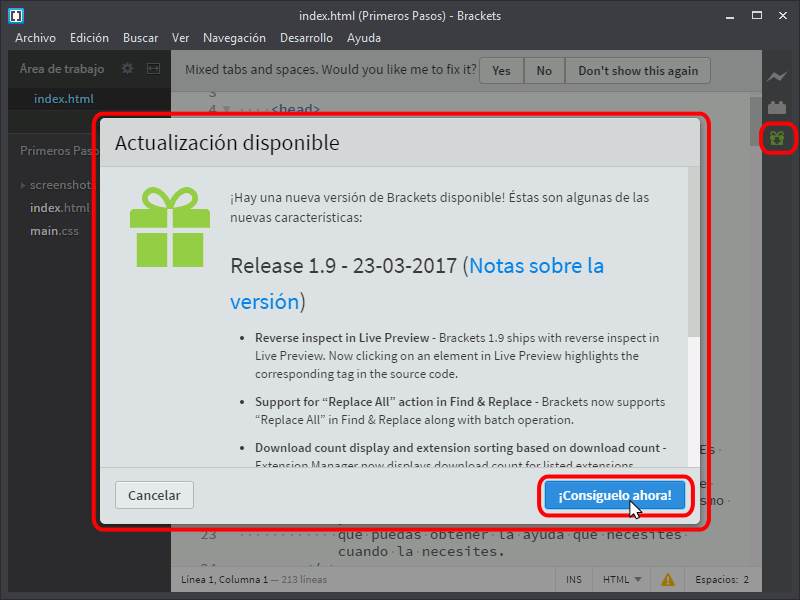
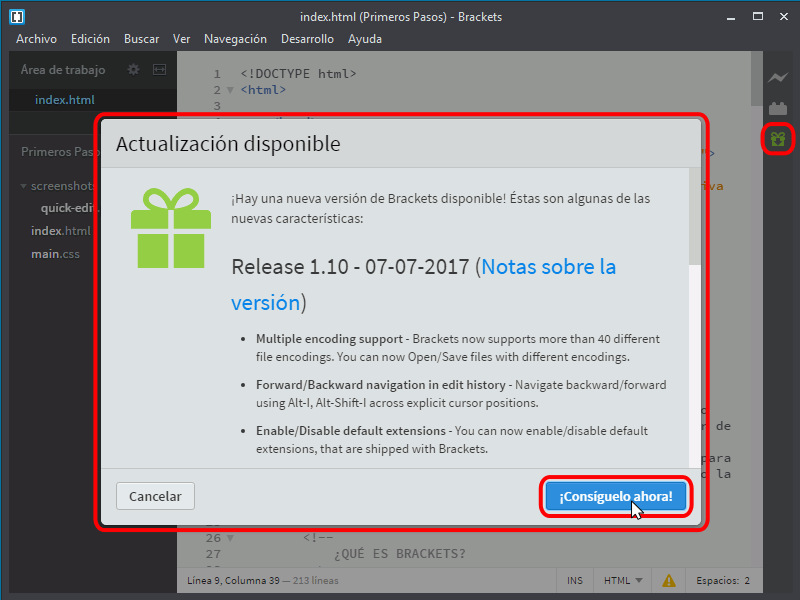
Publicado Brackets 1.10

diff --git a/software/brackets/brackets_instalacion.html b/software/brackets/brackets_instalacion.html
@@ -78,9 +78,11 @@
 
       <hr class="corta" />
 
-      <p>Brackets es un proyecto de software libre que se distribuye bajo la <a href="https://opensource.org/licenses/MIT">licencia MIT</a> y que tiene un ritmo de desarrollo muy rápido (antes de la versión 1.0, cada mes se publicaba una nueva versión de Brackets; una vez alcanzada la versión 1.0, se ha publicado una versión cada tres meses aproximadamente).</p>
+      <p>Brackets es un proyecto de software libre que se distribuye bajo la <a href="https://opensource.org/licenses/MIT">licencia MIT</a>.</p>
 
-      <p>La primera versión beta de Brackets se publicó en diciembre de 2011. Brackets 1.0 se publicó en noviembre de 2014. Actualmente (marzo de 2017), se puede descargar Brackets 1.9, publicada el 23 de marzo de 2017.</p>
+      <p>La primera versión beta de Brackets se publicó en diciembre de 2011. Brackets 1.0 se publicó en noviembre de 2014. Actualmente (julio de 2017), se puede descargar Brackets 1.10, publicada el 7 de julio de 2017.</p>
+
+      <p>Antes de la versión 1.0 tenía un ritmo de desarrllo muy rápido (cada mes se publicaba una nueva versión de Brackets), pero desde entonces el ritmo de desarrollo se ha ralentizado, aunque se sigue publicando una nueva versión cada tres meses aproximadamente, como muestra el gráfico siguiente, que muestra la fecha de publicación de Brackets.</p>
 
       <p class="mcl-centrado">
         <svg version="1.1" xmlns="http://www.w3.org/2000/svg" width="1050" viewBox="-20 -60 1050 120">
@@ -140,13 +142,17 @@
           <circle cx="829" cy="0" r="5" fill="#2098F5" />
           <text x="829" y="-15" text-anchor="middle" fill="#2098F5" style="font-size: 100%; font-weight: bold">1.8</text>
           <circle cx="884" cy="0" r="5" fill="#2098F5" />
-          <text x="884" y="-15" text-anchor="middle" fill="#2098F5" style="font-size: 100%; font-weight: bold">1.9</text>
-          <circle cx="916" cy="0" r="5" stroke="#2098F5" stroke-width="3" fill="white" />
-          <text x="916" y="-15" text-anchor="middle" fill="#2098F5" style="font-size: 100%; font-weight: bold">1.10</text>
+          <text x="884" y="25" text-anchor="middle" fill="#2098F5" style="font-size: 100%; font-weight: bold">1.9</text>
+          <circle cx="928" cy="0" r="5" fill="#2098F5" />
+          <text x="928" y="-15" text-anchor="middle" fill="#2098F5" style="font-size: 100%; font-weight: bold">1.10</text>
+          <circle cx="961" cy="0" r="5" stroke="#2098F5" stroke-width="3" fill="white" />
+          <text x="961" y="25" text-anchor="middle" fill="#2098F5" style="font-size: 100%; font-weight: bold">2.0</text>
         </svg>
       </p>
 
-      <p>En cada versión, Brackets incorpora nuevas funcionalidades. Las principales novedades se pueden consultar en las <a href="http://blog.brackets.io/category/releases/">notas de cada versión</a>.</p>
+      <p>El equipo de desarrollo de Brackets de Adobe anunció en el otoño de 2015 que durante unos 9 meses se iban a dedicar a desarrollar una nueva versión de Dreamweaver, el editor web comercial de Adobe, basada en Brackets y que pasado ese tiempo volverían a trabajar en Brackets. Por desgracia, esa vuelta no se ha producido, por lo que el ritmo de desarrollo de Brackets se ha resentido en los últimos tres años, como puede comprobarse en la <a href="https://github.com/adobe/brackets/graphs/contributors?from=2011-12-04&type=c">gráfica de <i>commits</i> en GitHub</a>.</p>
+
+      <p>Aún así, en cada versión Brackets sigue incorporando nuevas funcionalidades. Las principales novedades se pueden consultar en las <a href="http://blog.brackets.io/category/releases/">notas de cada versión</a>.</p>
 
       <p>También se pueden consultar las características que se están preparando para las próximas versiones en <a href="https://github.com/adobe/brackets/milestones">Brackets Github milestones issues</a>, en <a href="https://waffle.io/adobe/brackets">Waffle</a>, en el <a href="https://trello.com/b/LCDud1Nd/brackets">panel de Brackets en Trello</a> o en el <a href="http://blog.brackets.io/">blog de Brackets</a>.</p>
     </section>
@@ -491,7 +497,7 @@
     </section>
 
     <footer>
-      <p class="ultmod">Última modificación de esta página: 23 de marzo de 2017</p>
+      <p class="ultmod">Última modificación de esta página: 10 de julio de 2017</p>
 
       <p class="licencia"><a rel="license" href="https://creativecommons.org/licenses/by-sa/4.0/deed.es_ES"><img src="../../varios/iconos/icono_cc_by_sa.svg" alt="Licencia Creative Commons" title="Licencia Creative Commons BY-SA" width="120" height="42" /></a><br />
         Esta página forma parte del curso <strong>Páginas web HTML y hojas de estilo CSS</strong> por <a href="http://www.mclibre.org/" rel="author">Bartolomé Sintes Marco</a><br />

diff --git a/varios/htmlcss.css b/varios/htmlcss.css
@@ -6,7 +6,7 @@
 /*                                          */
 /* CSS curso: HTML/XHTML y CSS              */
 /*                                          */
-/* 30 de junio de 2017                      */
+/* 4 de julio de 2017                       */
 /*                                          */
 
 /* CSS comun */
@@ -281,14 +281,17 @@ div.codigo, div[class^="resultado"], div[class^="enunciado"] {
   clear: both;
   border: 2px black solid;
   margin: 5px 10px;
-  padding: 0;
+  padding: 0 5px;
   background-color: white;
   color: black;
 }
 
 div.codigo {
-  padding: 0 5px;
   font-family: "Inconsolata", monospace;
+}
+
+div.resultado-object {
+  padding: 0;
 }
 
 div.resultado-object object {

diff --git a/index.html b/index.html
@@ -181,7 +181,7 @@
     </div>
 
     <footer>
-      <p class="ultmod">Última modificación de alguna página de este curso: 28 de junio de 2017</p>
+      <p class="ultmod">Última modificación de alguna página de este curso: 10 de julio de 2017</p>
 
       <p class="licencia"><a rel="license" href="https://creativecommons.org/licenses/by-sa/4.0/deed.es_ES"><img src="varios/iconos/icono_cc_by_sa.svg" alt="Licencia Creative Commons" title="Licencia Creative Commons BY-SA" width="120" height="42" /></a><br />
         Esta página forma parte del curso <strong>Páginas web HTML y hojas de estilo CSS</strong> por <a href="http://www.mclibre.org/" rel="author">Bartolomé Sintes Marco</a><br />
